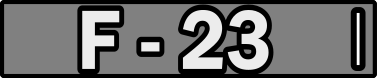
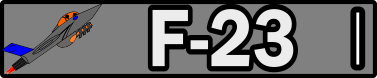
vzhledová úprava shopu

diff --git a/main_individuální_projekt.py b/main_individuální_projekt.py
@@ -129,6 +129,10 @@ raketa_shop1=pygame.image.load("Raketa_shop.png")
 raketa_shop2=pygame.image.load("Raketa2_shop.png")
 raketa_shop3=pygame.image.load("Raketa3_shop.png")
 
+button_raketa1 =pygame.image.load("Button_shop_raketa1.png")
+button_raketa2 =pygame.image.load("Button_shop_raketa2.png")
+button_raketa3 =pygame.image.load("Button_shop_raketa3.png")
+
 
 
 
@@ -158,6 +162,11 @@ main_buttony = {
     "myg_button":myg_button,
     "f_button":fbutton,
     "fockerfox_button":fockerfox_button,
+    
+    "r_b_1":button_raketa1,
+    "r_b_2":button_raketa2,
+    "r_b_3":button_raketa3,
+
     
     "pozice_buttonu1":pozice1,
     "pozice_buttonu2":pozice2,
@@ -207,6 +216,7 @@ while True:
                 if pozice_shop.collidepoint(udalost.pos):  # Kontrola, zda kliknutí bylo na obrázku tlačítka
                     Lobby = False
                     shop = True
+                    letadlo.reset(nepritel)
                     
                 if pozice_infinity.collidepoint(udalost.pos):  # Kontrola, zda kliknutí bylo na obrázku tlačítka
                     Lobby = False

diff --git a/Shop.py b/Shop.py
@@ -20,7 +20,7 @@ class Shop:
         self.value_zmenena=False
         self.obratnost = 2.5
         self.presnost=6
-        self.peníze = 10000
+        self.peníze = 0
         self.letadlo_owned =0
         self.raketa_owned =0
         
@@ -95,9 +95,9 @@ class Shop:
                
                 
             if self.main_buttony["pozice_rakety"].collidepoint(event.pos):
-                self.option1 = self.main_buttony["f_button"]
-                self.option2 = self.main_buttony["myg_button"]
-                self.option3 = self.main_buttony["fockerfox_button"]
+                self.option1 = self.main_buttony["r_b_3"]
+                self.option2 = self.main_buttony["r_b_2"]
+                self.option3 = self.main_buttony["r_b_1"]
                 self.moznost = 2
             
             if self.moznost == 2:
